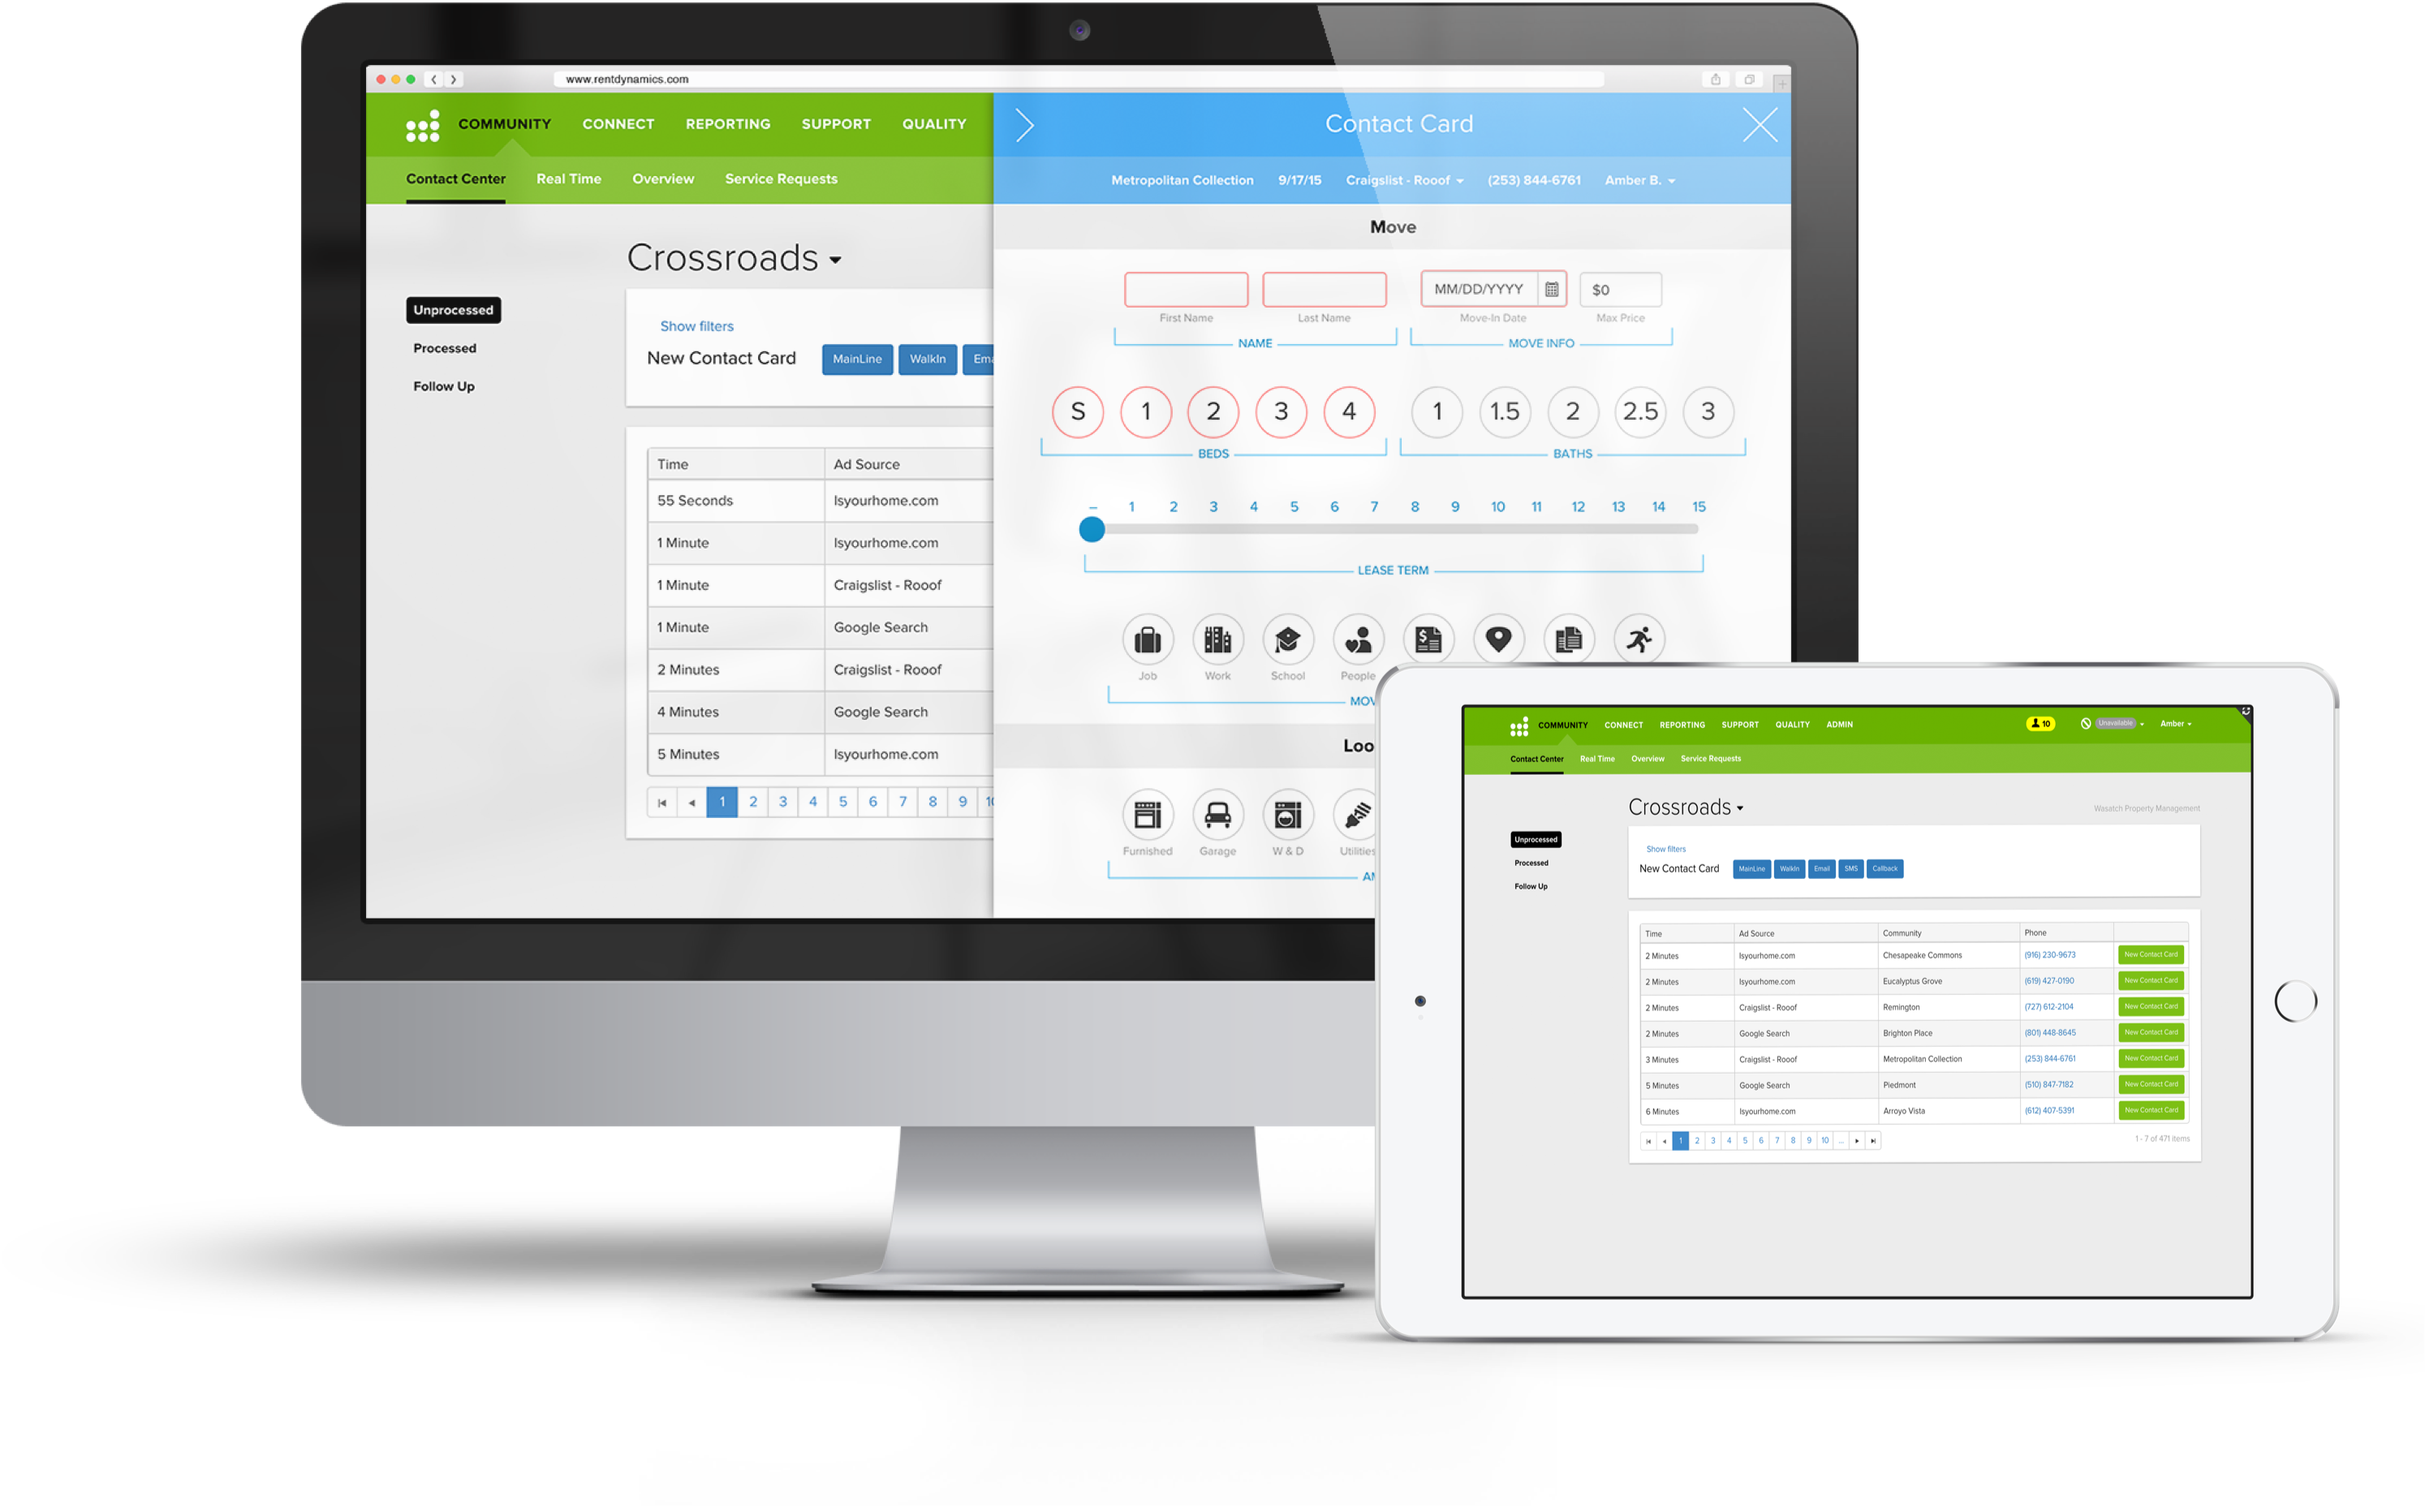
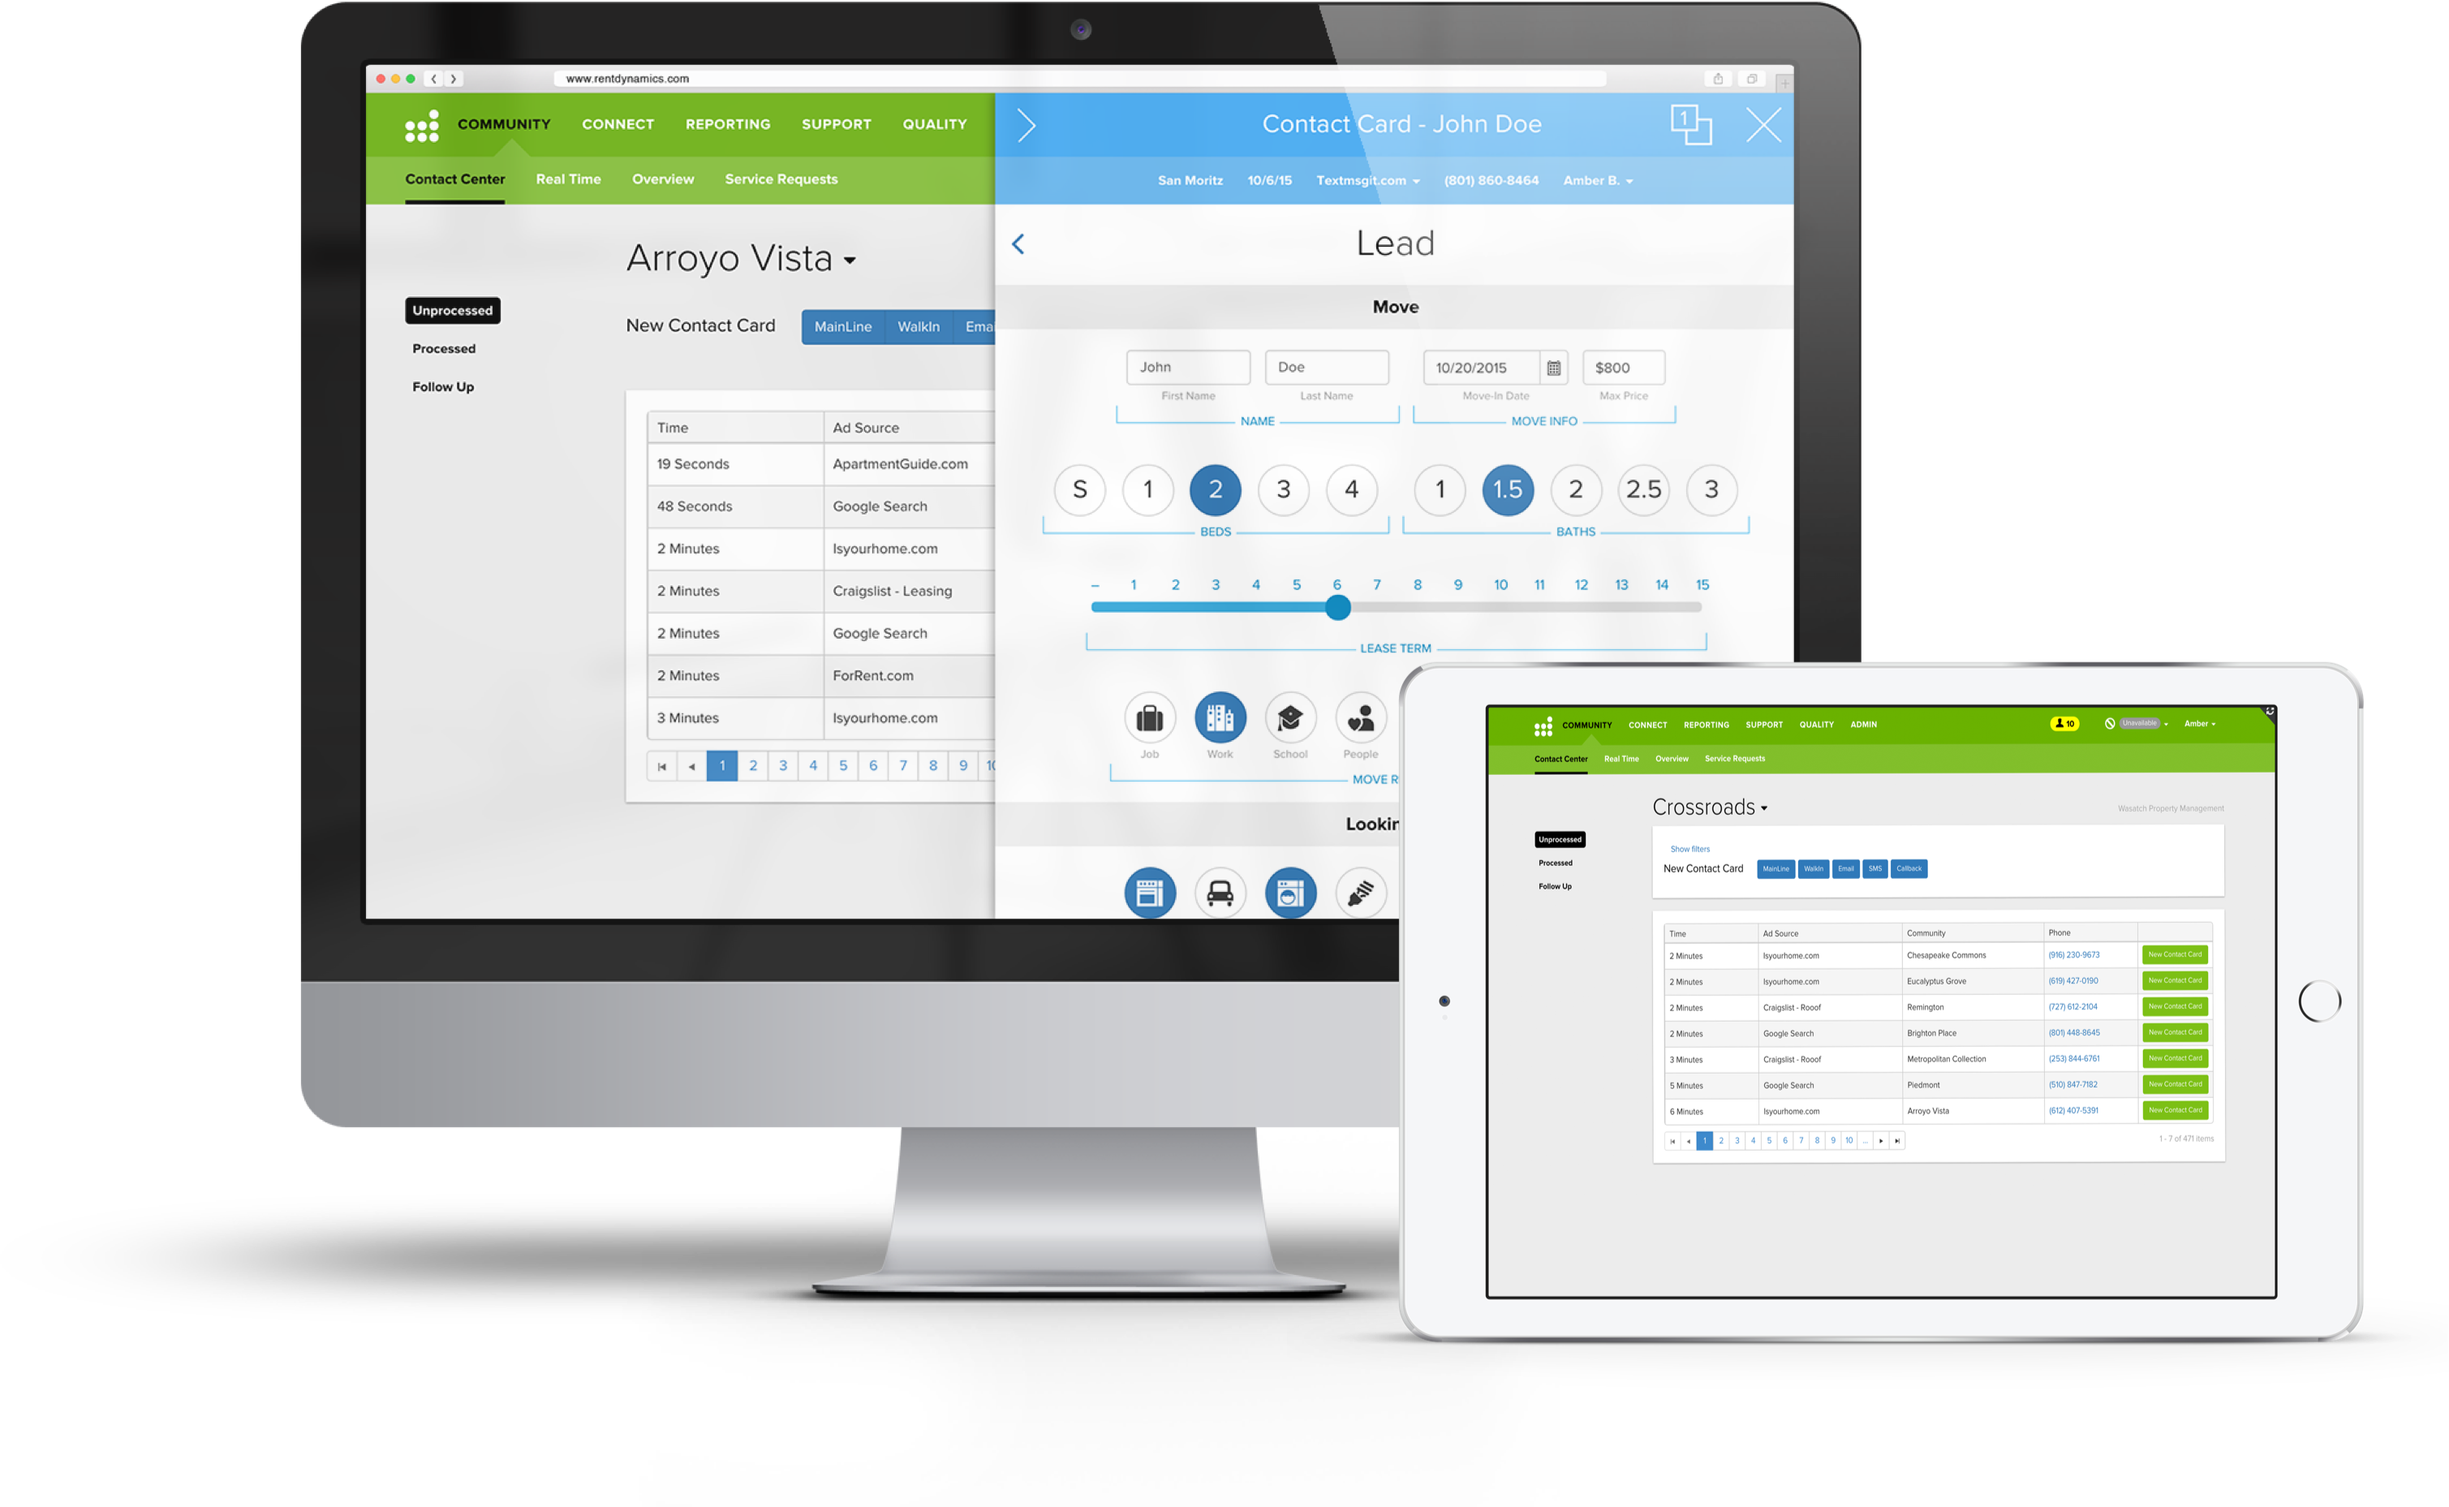
responsive and new top image

diff --git a/app/styles/main.scss b/app/styles/main.scss
@@ -432,7 +432,7 @@ h2 {
   width: 100%;
   height: auto;
   z-index: 1;
-  margin-top: -30px;
+  margin-top: -20px;
 }
 
 .fourthcontainerimage {
@@ -481,7 +481,7 @@ h2 {
 .macbook{
   display: block;
   margin: 0 auto;
-  width: 70%;
+  width: 77%;
   margin-top: 143px;
 }
 
@@ -489,7 +489,7 @@ h2 {
   display: block;
   margin: 0 auto;
   margin-top: 125px;
-  width: 100%;
+  width: 77%;
 }
 
 .browsehappy {
@@ -636,6 +636,40 @@ body {
 
 }
 
+@media screen and (min-width: 640px) {
+  
+.img-responsive{
+  margin-top: -455px;
+}
+  
+.content{
+  margin-top:250px;
+}
+
+h1 {
+  color: $secondary-color;
+}
+
+.thirdcontainer {
+  margin-top: 100px;
+  text-align: center;
+}
+
+.greendiagonalpar{
+  margin-top: 30px;
+  width: 100%;
+  height: 450px;
+}
+
+.secondcontainerpar {
+  margin-top: -322px;
+  text-align: center;
+  margin-bottom: 50px;
+  z-index: 101;
+}
+  
+}
+
 /* Responsive: Portrait tablets and up */
 @media screen and (min-width: 768px) {
   
@@ -723,7 +757,8 @@ body {
 }
 
 .col-md-3{
-  margin-left: 6%;
+  margin-left: 3%;
+  margin-right: 3%;
 }
 
 .greendiagonalpar{
@@ -750,10 +785,35 @@ input{
   z-index: 101;
 }
 
+.fourthcontainer {
+  width: 100%;
+  height: auto;
+  z-index: 1;
+  margin-top: 10px;
+}
+
+.arrow{
+  margin-top: 50px;
+}
+
+.img-responsive{
+  margin-top: -420px;
+}
+
+.thirdcontainer {
+  margin-top: -20px;
+  text-align: center;
+}
 
 
 }
 
+@media screen and (min-width: 993px) {
+.col-md-3{
+  margin-left: 6.5%;
+  margin-right: 0;
+}
+}
 
 /* Deskstop and up */
 @media screen and (min-width: 1024px) {
@@ -765,7 +825,7 @@ input{
   width: 27%;
 }
   
-  .macbook{
+ .macbook{
   display: block;
   margin: 0 auto;
   width: 35%;
@@ -815,6 +875,44 @@ input{
   margin-bottom: 50px;
   z-index: 101;
 }
+
+.lead{
+  margin-top: 15px;
+  margin-left: 23%;
+  margin-right: 23%;
+  font-weight: 200;
+  font-size: 1.3em;
+}
+
+.leadwhite{
+  margin-top: 15px;
+  margin-left: 23%;
+  margin-right: 23%;
+  font-weight: 200;
+  font-size: 1.3em;
+  color: #fff;
+}
+
+.leadpoints{
+  margin-top: 15px;
+  margin-left: 23%;
+  margin-right: 23%;
+  font-weight: 200;
+  font-size: 1.1em;
+}
+
+.mainpoints{
+  margin-top: 15px;
+  margin-left: 23%;
+  margin-right: 23%;
+  font-weight: 200;
+  font-size: 1.1em;
+  z-index: 101;
+}
+  
+  .pointswhite{
+    color: #fff;
+ }
 
 }
 

diff --git a/app/index.html b/app/index.html
@@ -71,15 +71,15 @@
 
 
       <div class="firstcontainer">
-        <div class="content">
-        <h1 class="">Why Rent Dynamics?</h1>
+        <div class="content wow animated fadeIn" data-wow-duration="3200ms"">
+        <h1 class="whyrent">Why Rent Dynamics?</h1>
         <p class="lead"> Welcome to the future of multifamily leasing! Rent Dynamics provides a full suite of services that will forever change the way you communicate with leads and residents.</p>
         </div>
             <div class="arrow">
               <h6 class="learn">See Why</h6>
               <img class="downarrow"src="images/downarrow.png"/>
             </div>
-          <img class="img-responsive"src="images/home.png"/>
+          <img class="img-responsive"src="images/home2.png"/>
       </div>
       
      <div class="thirdcontainer">
